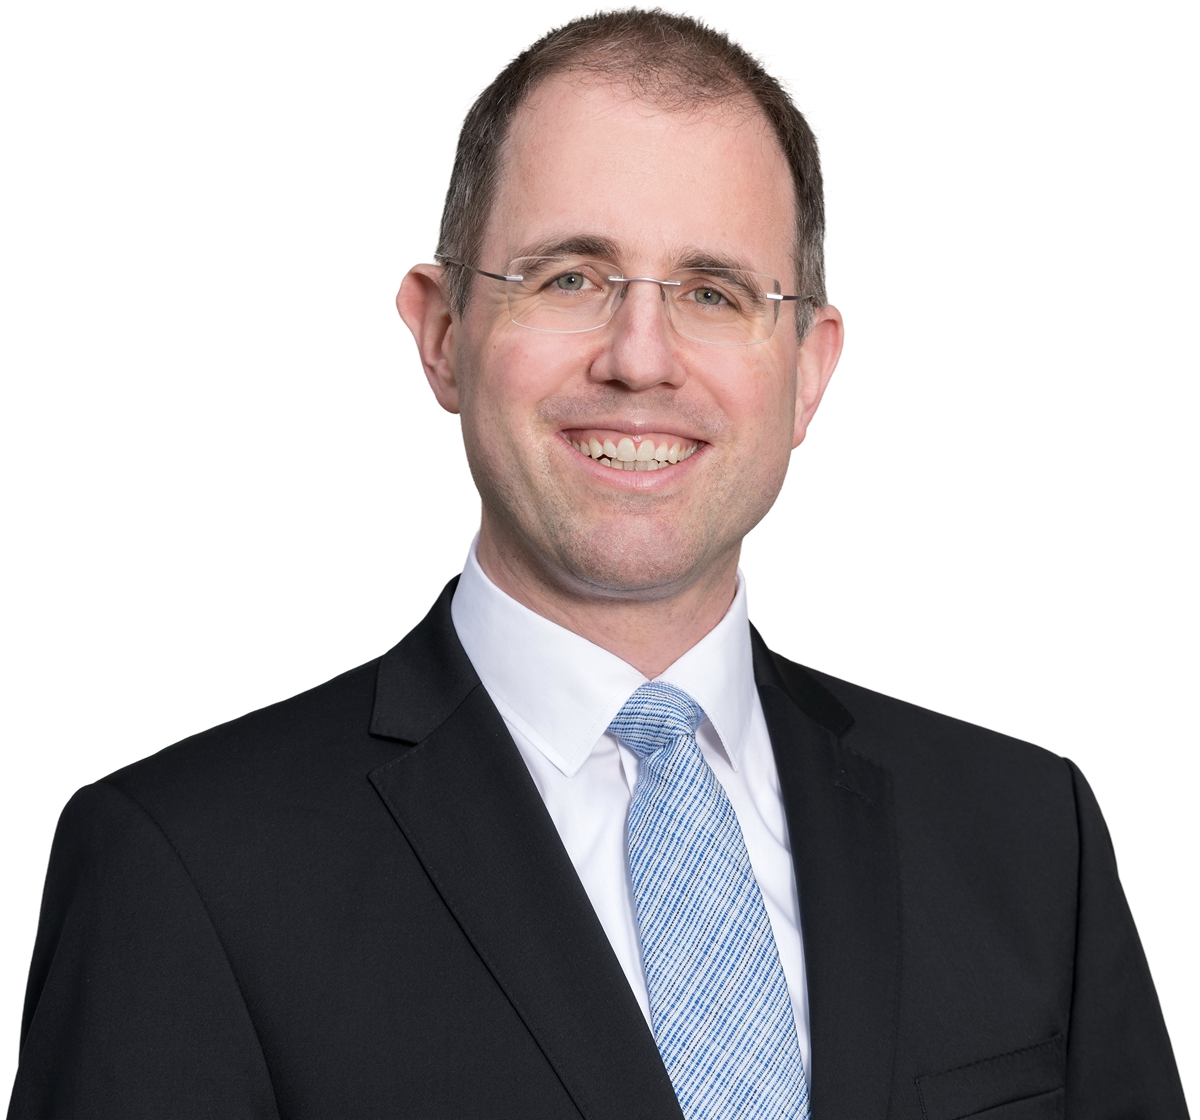
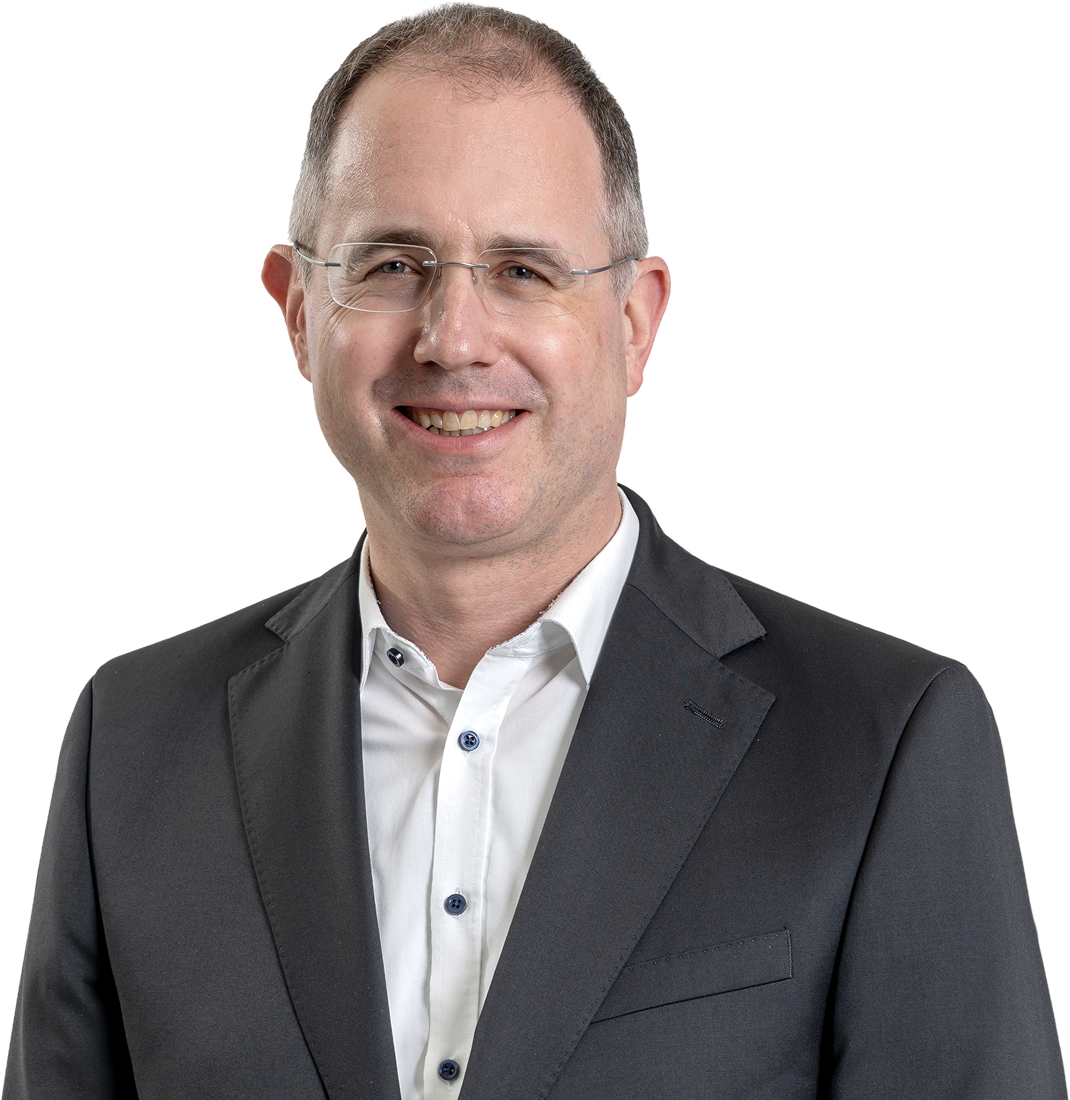
Update About team assets, hero framing, and multi-field form alignment.
Replace team photos with WebP, add TeamHeroImage for consistent crops, tune landing hero portrait/quote, and top-align paired form rows when validation errors appear.

diff --git a/app/about/_components/TeamGrid.tsx b/app/about/_components/TeamGrid.tsx
@@ -8,7 +8,7 @@ import { FullBleedDivider } from '@/components/shared/FullBleedDivider';
 const TEAM = [
   {
     name: 'Cornelia Diethelm',
-    photo: '/photo-cornelia.jpg',
+    photo: '/photo-cornelia.webp',
     bioKey: 'corneliaBio',
     links: {
       cdr: 'https://digitalresponsibility.ch',
@@ -16,7 +16,7 @@ const TEAM = [
   },
   {
     name: 'Andreas Von Gunten',
-    photo: '/photo-andreas.jpg',
+    photo: '/photo-andreas.webp',
     bioKey: 'andreasBio',
     links: {
       smartkmu: 'https://smartkmu.ch',
@@ -24,13 +24,13 @@ const TEAM = [
   },
   {
     name: 'Marc-Antonio Messmer',
-    photo: '/photo-marc-antonio.jpg',
+    photo: '/photo-marc-antonio.webp',
     bioKey: 'marcBio',
     links: {},
   },
   {
     name: 'Martin Steiger',
-    photo: '/photo-martin.jpg',
+    photo: '/photo-martin.webp',
     bioKey: 'martinBio',
     links: {
       steiger: 'https://steigerlegal.ch',
@@ -64,7 +64,7 @@ function TeamMemberCard({
   return (
     <article
       className={[
-        'border-border flex gap-4 px-4 py-6 sm:gap-8 sm:px-8 sm:py-8',
+        'border-border flex flex-col items-start gap-8 px-4 py-6 sm:px-8 sm:py-8 lg:flex-row lg:items-start',
         !isLast && 'border-b sm:border-b-0',
         isBottomRow && 'sm:border-t',
         isLeftColumn && 'sm:border-r',
@@ -72,8 +72,12 @@ function TeamMemberCard({
         .filter(Boolean)
         .join(' ')}
     >
-      <div className="relative size-24 shrink-0 overflow-hidden sm:size-40">
-        <img src={photo} alt={name} className="size-full object-cover object-top" />
+      <div className="relative size-40 shrink-0 overflow-hidden">
+        <img
+          src={photo}
+          alt={name}
+          className="absolute inset-0 h-full w-full object-cover object-center"
+        />
       </div>
       <div className="flex min-w-0 flex-col gap-2">
         <h3 className="text-foreground text-base font-semibold">{name}</h3>

diff --git a/components/shared/LandingHeroSection.tsx b/components/shared/LandingHeroSection.tsx
@@ -88,9 +88,9 @@ export function LandingHeroSection() {
                   alt={t('heroClientPortraitAlt')}
                   width={480}
                   height={480}
-                  className="relative z-10 mx-auto block w-full max-w-[480px] translate-x-[-80px] object-contain object-bottom [filter:drop-shadow(0_16px_40px_color-mix(in_srgb,var(--key-500)_20%,transparent))]"
+                  className="relative z-10 mx-auto block w-full max-w-[480px] translate-x-[-40px] object-contain object-bottom [filter:drop-shadow(0_16px_40px_color-mix(in_srgb,var(--key-500)_20%,transparent))]"
                 />
-                <figcaption className="absolute top-[34%] right-0 z-20 w-[min(100%,300px)] translate-x-[100px] translate-y-[112px] sm:top-[36%] sm:w-[min(100%,320px)] lg:top-[38%]">
+                <figcaption className="absolute top-[34%] right-0 z-20 w-[min(100%,300px)] translate-x-[100px] translate-y-16 sm:top-[36%] sm:w-[min(100%,320px)] lg:top-[38%]">
                   <blockquote className="m-0 text-left text-sm leading-snug">
                     <p className="text-key-500 font-display m-0 inline font-medium">
                       {t('heroClientQuoteLine1')}

diff --git a/app/about/page.tsx b/app/about/page.tsx
@@ -5,6 +5,7 @@ import { TeamGrid } from './_components/TeamGrid';
 import { LegalMarkdown } from '@/components/shared/LegalMarkdown';
 import { RegularPage } from '@/components/shared/RegularPage';
 import { loadAboutClosingMarkdown } from '@/lib/load-about-content';
+import { TeamHeroImage } from '@/components/shared/TeamHeroImage';
 
 export async function generateMetadata(): Promise<Metadata> {
   const t = await getTranslations('about');
@@ -33,13 +34,7 @@ export default async function AboutPage() {
           </p>
         </>
       }
-      media={
-        <img
-          src="/team.webp"
-          alt={t('teamImageAlt')}
-          className="border-border block aspect-[16/9] w-full border-b object-cover object-center"
-        />
-      }
+      media={<TeamHeroImage alt={t('teamImageAlt')} className="border-border border-b" />}
     >
       <TeamGrid />
       <div className="px-4 py-12 sm:px-8 sm:py-16">

diff --git a/app/result/ui/PostalAddressFields.tsx b/app/result/ui/PostalAddressFields.tsx
@@ -4,7 +4,7 @@ import { useTranslations } from 'next-intl';
 import type { UidCompany } from '@/api/uid-registry';
 import { CountryAutocomplete } from './CountryAutocomplete';
 import { UidCompanyLookup } from './UidCompanyLookup';
-import { Field, TextInput } from './FormSection';
+import { Field, TextInput, formMultiFieldRowClassName } from './FormSection';
 import { FormFieldLabel } from './FormFieldLabel';
 import { FieldErrorText } from '@/components/shared/FieldErrorText';
 
@@ -228,7 +228,7 @@ export function PostalAddressFields({
       ) : null}
 
       {showPostalLines ? (
-        <div className="flex flex-col gap-3 sm:flex-row sm:items-end sm:gap-5">
+        <div className={formMultiFieldRowClassName}>
           <div className="flex w-20 shrink-0 flex-col gap-1.5">
             <label htmlFor={postalId} className="text-foreground text-sm leading-snug font-medium">
               {t('postalCode')}

diff --git a/components/shared/AboutSection.tsx b/components/shared/AboutSection.tsx
@@ -1,6 +1,7 @@
 import { getTranslations } from 'next-intl/server';
 import { Container } from './Container';
 import { NavigationLink } from './NavigationLink';
+import { TeamHeroImage } from './TeamHeroImage';
 
 export async function AboutSection() {
   const t = await getTranslations('aboutSection');
@@ -19,12 +20,8 @@ export async function AboutSection() {
             </div>
           </div>
 
-          <div className="squircle aspect-[4/3] w-full overflow-hidden lg:aspect-auto lg:flex-1 lg:self-stretch">
-            <img
-              src="/team.webp"
-              alt={t('imageAlt')}
-              className="h-full w-full object-cover object-top"
-            />
+          <div className="squircle w-full min-w-0 lg:w-2/3 lg:shrink-0">
+            <TeamHeroImage alt={t('imageAlt')} />
           </div>
         </div>
       </Container>

diff --git a/components/shared/TeamHeroImage.tsx b/components/shared/TeamHeroImage.tsx
@@ -1,0 +1,22 @@
+import { cn } from '@/lib/utils';
+
+type TeamHeroImageProps = {
+  alt: string;
+  className?: string;
+};
+
+/** Full-width team frame (1024×682 source); image shifted up inside a fixed aspect box. */
+export function TeamHeroImage({ alt, className }: TeamHeroImageProps) {
+  return (
+    <div className={cn('relative aspect-[1024/682] w-full overflow-hidden', className)}>
+      <img
+        src="/team.webp"
+        alt={alt}
+        width={1024}
+        height={682}
+        decoding="async"
+        className="absolute top-[-52px] left-0 h-[calc(100%+52px)] w-full object-cover object-top"
+      />
+    </div>
+  );
+}

diff --git a/app/result/steps/SummaryStep.tsx b/app/result/steps/SummaryStep.tsx
@@ -168,7 +168,7 @@ export function SummaryStep({
 
               <div className="flex flex-col gap-6 px-4 pt-8 pb-8 sm:px-8 sm:pb-10 lg:pb-12">
                 <form className="flex w-full flex-col items-start gap-6 text-left" noValidate>
-                  <div className="grid w-full grid-cols-2 gap-5">
+                  <div className="grid w-full grid-cols-2 items-start gap-5">
                     <Field label={t('firstNameLabel')}>
                       <Input
                         variant="secondary"

diff --git a/app/result/steps/QuestionnaireStep.tsx b/app/result/steps/QuestionnaireStep.tsx
@@ -661,7 +661,7 @@ export function QuestionnaireStep({
                   requiredBadgeLabel={requiredBadge}
                   requiredShakeKey={validationAttempt}
                 >
-                  <div className="flex flex-col gap-3 sm:flex-row">
+                  <div className="flex flex-col gap-3 sm:flex-row sm:items-start">
                     <TextInput
                       value={form.videoRetentionAmount}
                       onChange={(e) => {

diff --git a/app/account/_components/sections/PaymentDetailsSection.tsx b/app/account/_components/sections/PaymentDetailsSection.tsx
@@ -119,7 +119,7 @@ export function PaymentDetailsSection() {
               />
             </Field>
 
-            <div className="flex flex-col gap-6 sm:flex-row">
+            <div className="flex flex-col gap-6 sm:flex-row sm:items-start">
               <div className="sm:flex-1">
                 <Field id="billingFirstName" label={t('firstName')} error={err('firstName')}>
                   <Input

diff --git a/components/shared/NewsletterSubscribeCard.tsx b/components/shared/NewsletterSubscribeCard.tsx
@@ -128,7 +128,7 @@ export function NewsletterSubscribeCard({
             .join(' ')}
           aria-hidden={submitted || undefined}
         >
-          <div className="grid grid-cols-1 gap-5 sm:grid-cols-2">
+          <div className="grid grid-cols-1 items-start gap-5 sm:grid-cols-2">
             <Field label={t('firstNameLabel')}>
               <Input
                 variant="secondary"

diff --git a/app/contact/_components/ContactForm.tsx b/app/contact/_components/ContactForm.tsx
@@ -131,7 +131,7 @@ export function ContactForm({
 
   return (
     <form onSubmit={handleSubmit(onSubmit)} noValidate className="flex flex-col gap-5">
-      <div className="grid gap-5 sm:grid-cols-2">
+      <div className="grid items-start gap-5 sm:grid-cols-2">
         <Field id="name" label={t('name')} error={errors.name?.message}>
           <Input
             id="name"

diff --git a/app/account/_components/sections/ProfileSection.tsx b/app/account/_components/sections/ProfileSection.tsx
@@ -247,7 +247,7 @@ function PersonalDetailsForm({ profile }: { profile: Profile }) {
       }}
       noValidate
     >
-      <div className="grid gap-6 sm:grid-cols-2">
+      <div className="grid items-start gap-6 sm:grid-cols-2">
         <Field id="profileFirstName" label={t('firstName')} error={err('firstName')}>
           <Input
             id="profileFirstName"
